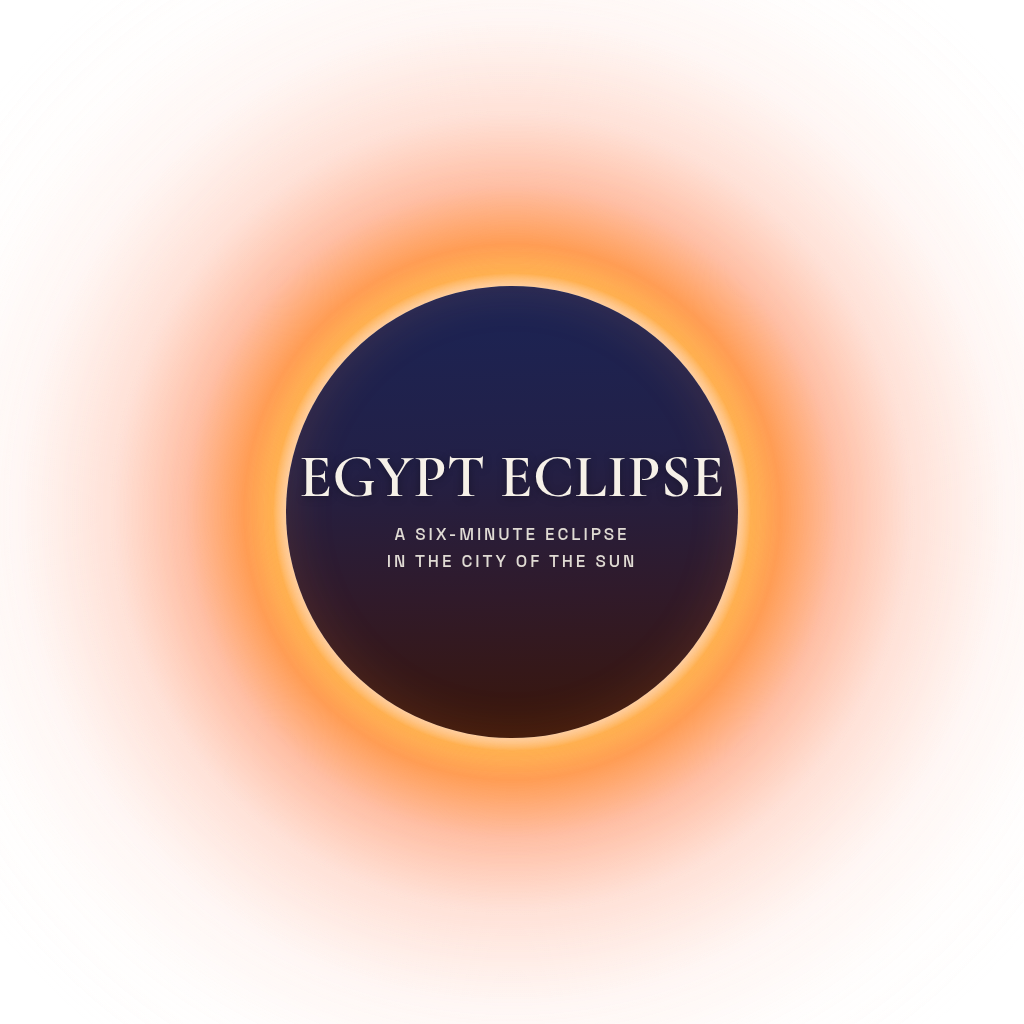
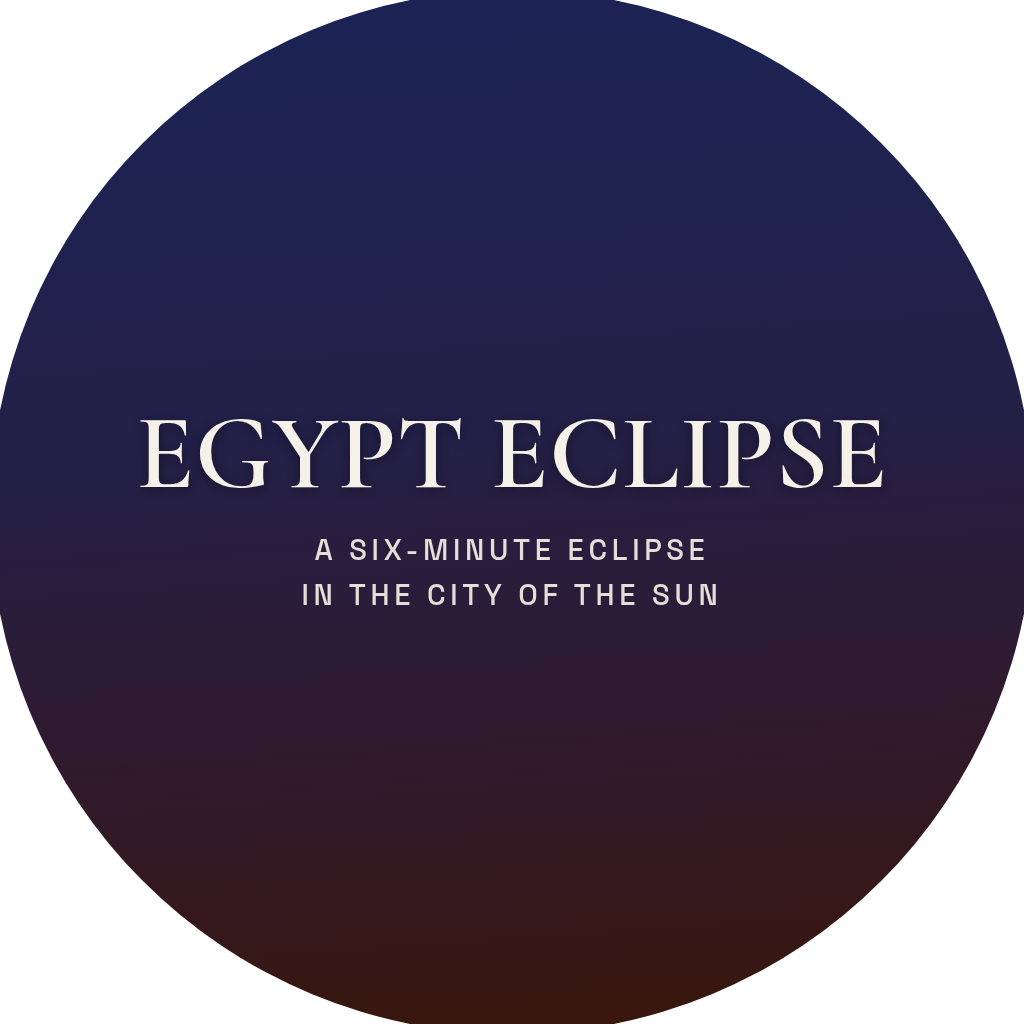
3D coin (no square) + land-on-the-coin win with fireworks
Coin is now a real 3D disc: gold metal rim + emblem on both round faces
(CircleGeometry, back-to-back so text reads right) + a subtle warm corona
glow sprite -> the square background is gone. coin.png redrawn to fill the
round face.

Landing ported from Iceland: drift down into the marker ring and touch the
coin -> "You landed on the Eclipse" overlay + additive-particle fireworks;
physics freeze while won; tap/click/R to fly again.

diff --git a/index.html b/index.html
@@ -55,6 +55,12 @@
   <audio id="bgm" loop preload="auto" src="assets/soundtrack.mp3"></audio>
   <button id="f-mute" aria-label="toggle music" title="music on / off" style="position:absolute;top:16px;right:18px;z-index:6;pointer-events:auto;width:34px;height:34px;border-radius:50%;background:rgba(8,8,14,.5);border:1px solid rgba(244,200,116,.4);color:#f4c874;font-size:15px;line-height:30px;text-align:center;cursor:pointer;padding:0">🔊</button>
 
+  <!-- Win overlay: shown when the balloon lands on the Egypt Eclipse coin -->
+  <div id="f-win" style="position:absolute;inset:0;z-index:9;display:none;flex-direction:column;align-items:center;justify-content:center;pointer-events:none;text-align:center">
+    <div style="font-family:'Cormorant Garamond',serif;font-weight:300;font-size:64px;color:#fff;text-shadow:0 0 34px rgba(255,190,70,.85),0 2px 18px rgba(0,0,0,.65);line-height:1.05">You landed<br>on the Eclipse</div>
+    <div style="margin-top:20px;color:#ffe9b8;font-size:12px;letter-spacing:.34em;text-transform:uppercase;text-shadow:0 1px 8px rgba(0,0,0,.85)">✦ you win ✦&nbsp;&nbsp;&nbsp;tap or press R to fly again</div>
+  </div>
+
   <!-- Start overlay; the button stays "loading terrain…" until the DEM is decoded -->
   <div id="f-start" style="position:absolute;inset:0;z-index:10;display:flex;flex-direction:column;align-items:center;justify-content:center;background:rgba(8,8,14,.82);text-align:center;cursor:pointer">
     <div id="f-title" style="font-family:'Cormorant Garamond',serif;font-weight:300;font-size:56px;color:#f4f1ea">Egypt Eclipse Flight</div>
@@ -321,21 +327,65 @@
   var SITE={x:60,z:75};
   var coinTex=new THREE.TextureLoader().load('assets/coin.png');
   var siteCoin=null, siteRingMat=null;
+  var won=false, winPos=new THREE.Vector3(), LAND_R=210, LAND_ALT=50;   // land-on-the-coin win: horizontal radius + altitude-above-ground thresholds
+  var FW_COLORS=[[2.2,1.5,0.5],[2.4,0.5,0.4],[0.5,2.2,0.8],[0.5,1.4,2.4],[2.2,0.6,1.8],[2.4,2.4,2.2],[2.4,1.2,0.3],[2.2,0.9,1.5]];
+  var fw={pts:null,geo:null,pos:null,col:null,parts:[],max:6500,cursor:0,t:0,last:0,gy:0};
   function buildSiteMarker(){
     var gy=H(SITE.x,SITE.z), grp=new THREE.Group(); grp.position.set(SITE.x,gy+4,SITE.z);
     function ring(ri,ro,op){var mm=new THREE.MeshBasicMaterial({color:0xffb24d,transparent:true,opacity:op,blending:THREE.AdditiveBlending,depthWrite:false,side:THREE.DoubleSide});var m=new THREE.Mesh(new THREE.RingGeometry(ri,ro,64),mm);m.rotation.x=-Math.PI/2;grp.add(m);return mm;}
     siteRingMat=ring(150,184,0.55);   // outer ring (gently pulses in the loop)
     ring(72,88,0.5);                  // inner ring
     ring(0,150,0.07);                 // soft fill
-    // the coin — an upright disc floating in the centre, spun slowly about its vertical axis. Two
-    // back-to-back single-sided planes so the "EGYPT ECLIPSE" text reads correctly on BOTH faces.
-    siteCoin=new THREE.Group(); siteCoin.position.set(0,108,0);
-    var coinMat=new THREE.MeshBasicMaterial({map:coinTex,transparent:true,depthWrite:false,side:THREE.FrontSide});
-    siteCoin.add(new THREE.Mesh(new THREE.PlaneGeometry(140,140),coinMat));
-    var cb=new THREE.Mesh(new THREE.PlaneGeometry(140,140),coinMat); cb.rotation.y=Math.PI; siteCoin.add(cb);
+    // the coin — a real 3D disc: a gold metal rim + the emblem on both round faces (two single-sided
+    // CircleGeometry faces so the text reads right from either side), wrapped in a warm corona glow.
+    siteCoin=new THREE.Group(); siteCoin.position.set(0,112,0);
+    var CR=64, CTH=11;
+    var faceMat=new THREE.MeshBasicMaterial({map:coinTex,transparent:true,alphaTest:0.5,side:THREE.FrontSide});
+    var rimMat=new THREE.MeshStandardMaterial({color:0xdca63c,metalness:0.9,roughness:0.34,emissive:0x4a3410,emissiveIntensity:0.7});
+    var rim=new THREE.Mesh(new THREE.CylinderGeometry(CR,CR,CTH,60,1,true),rimMat); rim.rotation.x=Math.PI/2; siteCoin.add(rim);
+    var cf1=new THREE.Mesh(new THREE.CircleGeometry(CR,60),faceMat); cf1.position.z=CTH/2+0.2; siteCoin.add(cf1);
+    var cf2=new THREE.Mesh(new THREE.CircleGeometry(CR,60),faceMat); cf2.position.z=-CTH/2-0.2; cf2.rotation.y=Math.PI; siteCoin.add(cf2);
+    var cglow=new THREE.Sprite(new THREE.SpriteMaterial({map:sunTex,transparent:true,depthWrite:false,blending:THREE.AdditiveBlending,opacity:0.4}));
+    cglow.scale.set(CR*1.85,CR*1.85,1); siteCoin.add(cglow);
     grp.add(siteCoin);
     scene.add(grp);
   }
+
+  // ---------------------------------------------------------------- fireworks (win celebration)
+  function sparkTex(){var c=document.createElement('canvas');c.width=c.height=64;var x=c.getContext('2d');var g=x.createRadialGradient(32,32,0,32,32,32);g.addColorStop(0,'rgba(255,255,255,1)');g.addColorStop(0.28,'rgba(255,255,255,0.85)');g.addColorStop(0.6,'rgba(255,255,255,0.22)');g.addColorStop(1,'rgba(255,255,255,0)');x.fillStyle=g;x.fillRect(0,0,64,64);var t=new THREE.Texture(c);t.needsUpdate=true;return t;}
+  function buildFireworks(){
+    fw.pos=new Float32Array(fw.max*3); fw.col=new Float32Array(fw.max*3);
+    fw.geo=new THREE.BufferGeometry();
+    fw.geo.setAttribute('position',new THREE.BufferAttribute(fw.pos,3));
+    fw.geo.setAttribute('color',new THREE.BufferAttribute(fw.col,3));
+    fw.geo.setDrawRange(0,0);
+    fw.pts=new THREE.Points(fw.geo,new THREE.PointsMaterial({size:56,map:sparkTex(),vertexColors:true,transparent:true,blending:THREE.AdditiveBlending,depthWrite:false,sizeAttenuation:true}));
+    fw.pts.frustumCulled=false; fw.pts.layers.set(2); scene.add(fw.pts);   // layer 2 = main view only (never in the minimap)
+    for(var i=0;i<fw.max;i++)fw.parts.push({life:0,ml:1,x:0,y:0,z:0,vx:0,vy:0,vz:0,r:0,g:0,b:0});
+    fw.gy=H(SITE.x,SITE.z);
+  }
+  function fwBurst(cx,cy,cz,col,n,sp){
+    for(var i=0;i<n;i++){var p=fw.parts[fw.cursor++ % fw.max];
+      var th=Math.random()*6.283, ph=Math.acos(2*Math.random()-1), s=sp*(0.35+Math.random()*0.75);
+      p.x=cx;p.y=cy;p.z=cz;
+      p.vx=Math.sin(ph)*Math.cos(th)*s; p.vy=Math.cos(ph)*s; p.vz=Math.sin(ph)*Math.sin(th)*s;
+      p.r=col[0];p.g=col[1];p.b=col[2]; p.ml=1.1+Math.random()*1.2; p.life=p.ml;
+    }
+  }
+  function fwShoot(){ var b=winPos, c=FW_COLORS[(Math.random()*FW_COLORS.length)|0]; fwBurst(b.x+(Math.random()-0.5)*1600, fw.gy+320+Math.random()*1200, b.z+(Math.random()-0.5)*1600, c, 200, 320); }
+  function fwVolley(){ for(var k=0;k<10;k++)fwShoot(); fw.t=0; fw.last=0; }
+  function fwStep(dt,now){
+    fw.t+=dt;
+    if(fw.t-fw.last>0.19){ fw.last=fw.t; fwShoot(); fwShoot(); if(Math.random()<0.5)fwShoot(); }
+    var pos=fw.pos,col=fw.col,k=0,GR=150;
+    for(var i=0;i<fw.max;i++){var p=fw.parts[i]; if(p.life<=0)continue; p.life-=dt; if(p.life<=0)continue;
+      p.vy-=GR*dt; p.vx*=0.986;p.vy*=0.99;p.vz*=0.986; p.x+=p.vx*dt;p.y+=p.vy*dt;p.z+=p.vz*dt;
+      var a=(p.life/p.ml)*(0.62+0.38*Math.sin(now*0.03+i));
+      pos[k*3]=p.x;pos[k*3+1]=p.y;pos[k*3+2]=p.z; col[k*3]=p.r*a;col[k*3+1]=p.g*a;col[k*3+2]=p.b*a; k++;
+    }
+    fw.geo.setDrawRange(0,k); fw.geo.attributes.position.needsUpdate=true; fw.geo.attributes.color.needsUpdate=true;
+  }
+  function fwClear(){ for(var i=0;i<fw.parts.length;i++)fw.parts[i].life=0; if(fw.geo)fw.geo.setDrawRange(0,0); }
 
   // ---------------------------------------------------------------- minimap (corner map of the west bank)
   // A tilted top-down second camera over the whole bbox, plus bright layer-1 markers (a gold site pin at
@@ -367,7 +417,7 @@
   var st={pos:SPAWN.clone(),heading:0,pitch:-0.02,roll:0,throttle:0.4,speed:80,boost:0,ecl:0};
   var MINS=28,MAXS=82,keys={},BOUND=12500;   // metres/second — a serene balloon drift (slower than the jet)
 
-  function resetFlight(){st.pos.copy(SPAWN);st.heading=facePeak;st.pitch=-0.02;st.roll=0;st.throttle=0.4;st.speed=40;st.ecl=0;}
+  function resetFlight(){st.pos.copy(SPAWN);st.heading=facePeak;st.pitch=-0.02;st.roll=0;st.throttle=0.4;st.speed=40;st.ecl=0;won=false;var we=document.getElementById('f-win');if(we)we.style.display='none';fwClear();}
 
   // Seat the spawn over the Marsam Hotel, facing SSW toward the eclipse (so the corona rises dead ahead
   // as totality nears). The sim's forward azimuth = −heading, so face the Sun by heading = −SUN_AZ.
@@ -386,7 +436,7 @@
 
   // ---- touch steering (mobile) — drag anywhere to climb/steer; desktop keyboard is untouched ----
   var touch={active:false,px:0,py:0,ox:0,oy:0,ref:200};
-  function tStart(e){var t=e.touches[0];if(!t)return;touch.active=true;touch.ox=t.clientX;touch.oy=t.clientY;touch.px=0;touch.py=0;touch.ref=(Math.min(window.innerWidth,window.innerHeight)*0.28)||200;e.preventDefault();}
+  function tStart(e){var t=e.touches[0];if(!t)return;if(won){resetFlight();e.preventDefault();return;}touch.active=true;touch.ox=t.clientX;touch.oy=t.clientY;touch.px=0;touch.py=0;touch.ref=(Math.min(window.innerWidth,window.innerHeight)*0.28)||200;e.preventDefault();}
   function tMove(e){if(!touch.active)return;var t=e.touches[0];if(!t)return;touch.px=-Math.max(-1,Math.min(1,(t.clientX-touch.ox)/touch.ref));touch.py=-Math.max(-1,Math.min(1,(t.clientY-touch.oy)/touch.ref));e.preventDefault();}
   function tEnd(){touch.active=false;touch.px=0;touch.py=0;}
   canvas.addEventListener('touchstart',tStart,{passive:false});
@@ -416,7 +466,7 @@
 
   var startElClick=function(){if(!demReady)return;started=true;startEl.style.display='none';canvas.focus();if(bgm){bgm.volume=0.5;bgm.play().catch(function(){});}};
   startEl.addEventListener('click',startElClick);
-  canvas.addEventListener('click',function(){canvas.focus();});
+  canvas.addEventListener('click',function(){canvas.focus();if(won)resetFlight();});
   if(muteBtn) muteBtn.addEventListener('click',function(e){e.stopPropagation();if(!bgm)return;bgm.muted=!bgm.muted;muteBtn.textContent=bgm.muted?'🔇':'🔊';muteBtn.style.color=bgm.muted?'#8a7a58':'#f4c874';});
   // mobile: replace the keyboard hints with a touch instruction
   if(window.matchMedia&&matchMedia('(pointer:coarse)').matches){
@@ -431,6 +481,7 @@
   var last=performance.now();
   function loop(now){var dt=Math.min((now-last)/1000,0.05);last=now;
     if(started){
+      if(!won){
       var pIn=(keys['arrowup']?1:0)-(keys['arrowdown']?1:0),rIn=(keys['arrowleft']?1:0)-(keys['arrowright']?1:0),tIn=(keys['w']?1:0)-(keys['s']?1:0);
       if(touch.active){pIn=touch.py;rIn=touch.px;} // mobile: finger drag steers climb + turn
       st.throttle=Math.max(0,Math.min(1,st.throttle+tIn*0.5*dt));st.boost+=(((keys[' ']?1:0))-st.boost)*Math.min(1,dt*4);
@@ -439,8 +490,11 @@
       var tgt=MINS+(MAXS-MINS)*st.throttle+st.boost*52;st.speed+=(tgt-st.speed)*Math.min(1,dt*1.2);              // serene drift
       st.pos.addScaledVector(new THREE.Vector3(0,0,-1).applyQuaternion(new THREE.Quaternion().setFromEuler(new THREE.Euler(st.pitch,st.heading,st.roll,'YXZ'))),st.speed*dt);
       var g=H(st.pos.x,st.pos.z),minY=g+22;if(st.pos.y<minY){st.pos.y=minY;if(st.pitch<0.05)st.pitch+=1.2*dt;}
+      // WIN — drift down into the marker ring and touch down on the Egypt Eclipse coin (no crash, just a soft landing)
+      var wdx=st.pos.x-SITE.x,wdz=st.pos.z-SITE.z;if((wdx*wdx+wdz*wdz)<LAND_R*LAND_R&&(st.pos.y-g)<LAND_ALT){won=true;st.speed=0;winPos.copy(st.pos);var we=document.getElementById('f-win');if(we)we.style.display='flex';fwVolley();}
       // soft turn-back at the edge of the baked area (no sea to fall into — just keep you over Luxor)
       if(Math.hypot(st.pos.x,st.pos.z)>BOUND){var want=Math.atan2(st.pos.x,st.pos.z),diff=want-st.heading;while(diff>Math.PI)diff-=2*Math.PI;while(diff<-Math.PI)diff+=2*Math.PI;st.heading+=diff*Math.min(1,dt*0.6);}
+      }
       if(keys['r'])resetFlight();
       // --- eclipse phase (computed early so the camera can tilt up toward the overhead corona) ---
       st.ecl+=dt*(keys['e']?9:1)/70;if(st.ecl>1)st.ecl-=1;var phase=st.ecl,sep=Math.abs(phase-0.5)*2,coverage=smooth(1.0,0.0,sep),totality=smooth(0.86,0.99,coverage);
@@ -476,6 +530,7 @@
     }
     if(siteRingMat)siteRingMat.opacity=0.34+0.22*Math.sin(now*0.0022);   // marker ring pulse
     if(siteCoin)siteCoin.rotation.y=now*0.0005;                          // coin: slow horizontal spin
+    if(won)fwStep(dt,now);                                               // grand fireworks while the win screen is up
     renderer.render(scene,camera);
     // --- corner minimap: second pass from the top-down camera into the lower-left viewport ---
     if(started&&miniCam){
@@ -498,7 +553,7 @@
 
   // ---------------------------------------------------------------- boot
   loadHeightmap(function(ok){
-    if(ok){buildTerrain();setSpawn();buildMinimap();loadBuildings();buildSiteMarker();var a=document.getElementById('f-attr');if(a)a.textContent='imagery © esri · elevation © aws terrain / srtm · buildings © openstreetmap';}
+    if(ok){buildTerrain();setSpawn();buildMinimap();loadBuildings();buildSiteMarker();buildFireworks();var a=document.getElementById('f-attr');if(a)a.textContent='imagery © esri · elevation © aws terrain / srtm · buildings © openstreetmap';}
     demReady=true;if(flyEl)flyEl.textContent='click to fly';
   });
   requestAnimationFrame(loop);